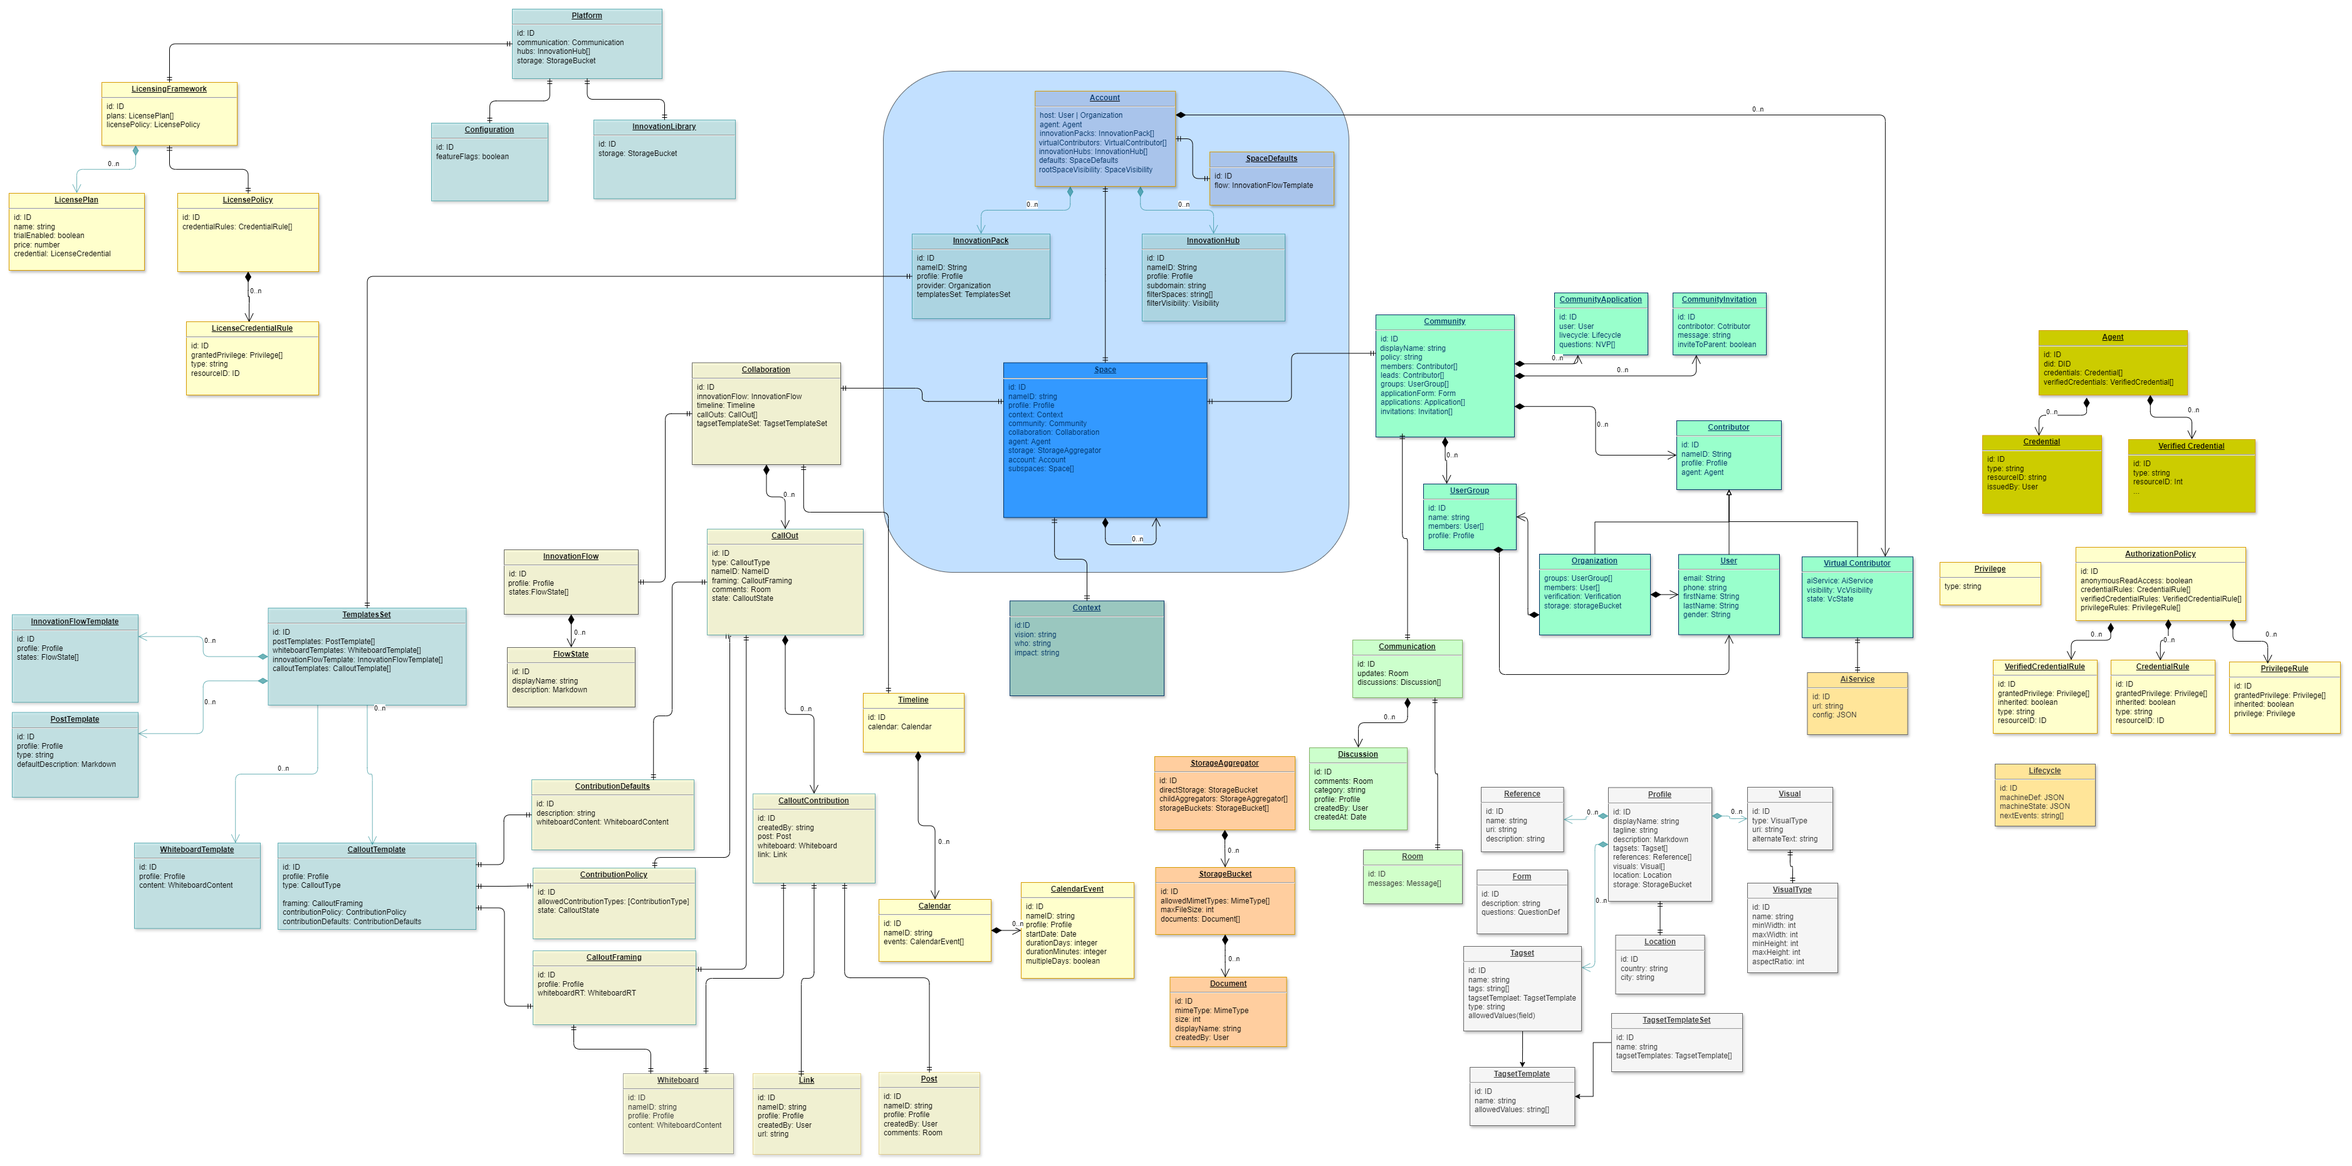
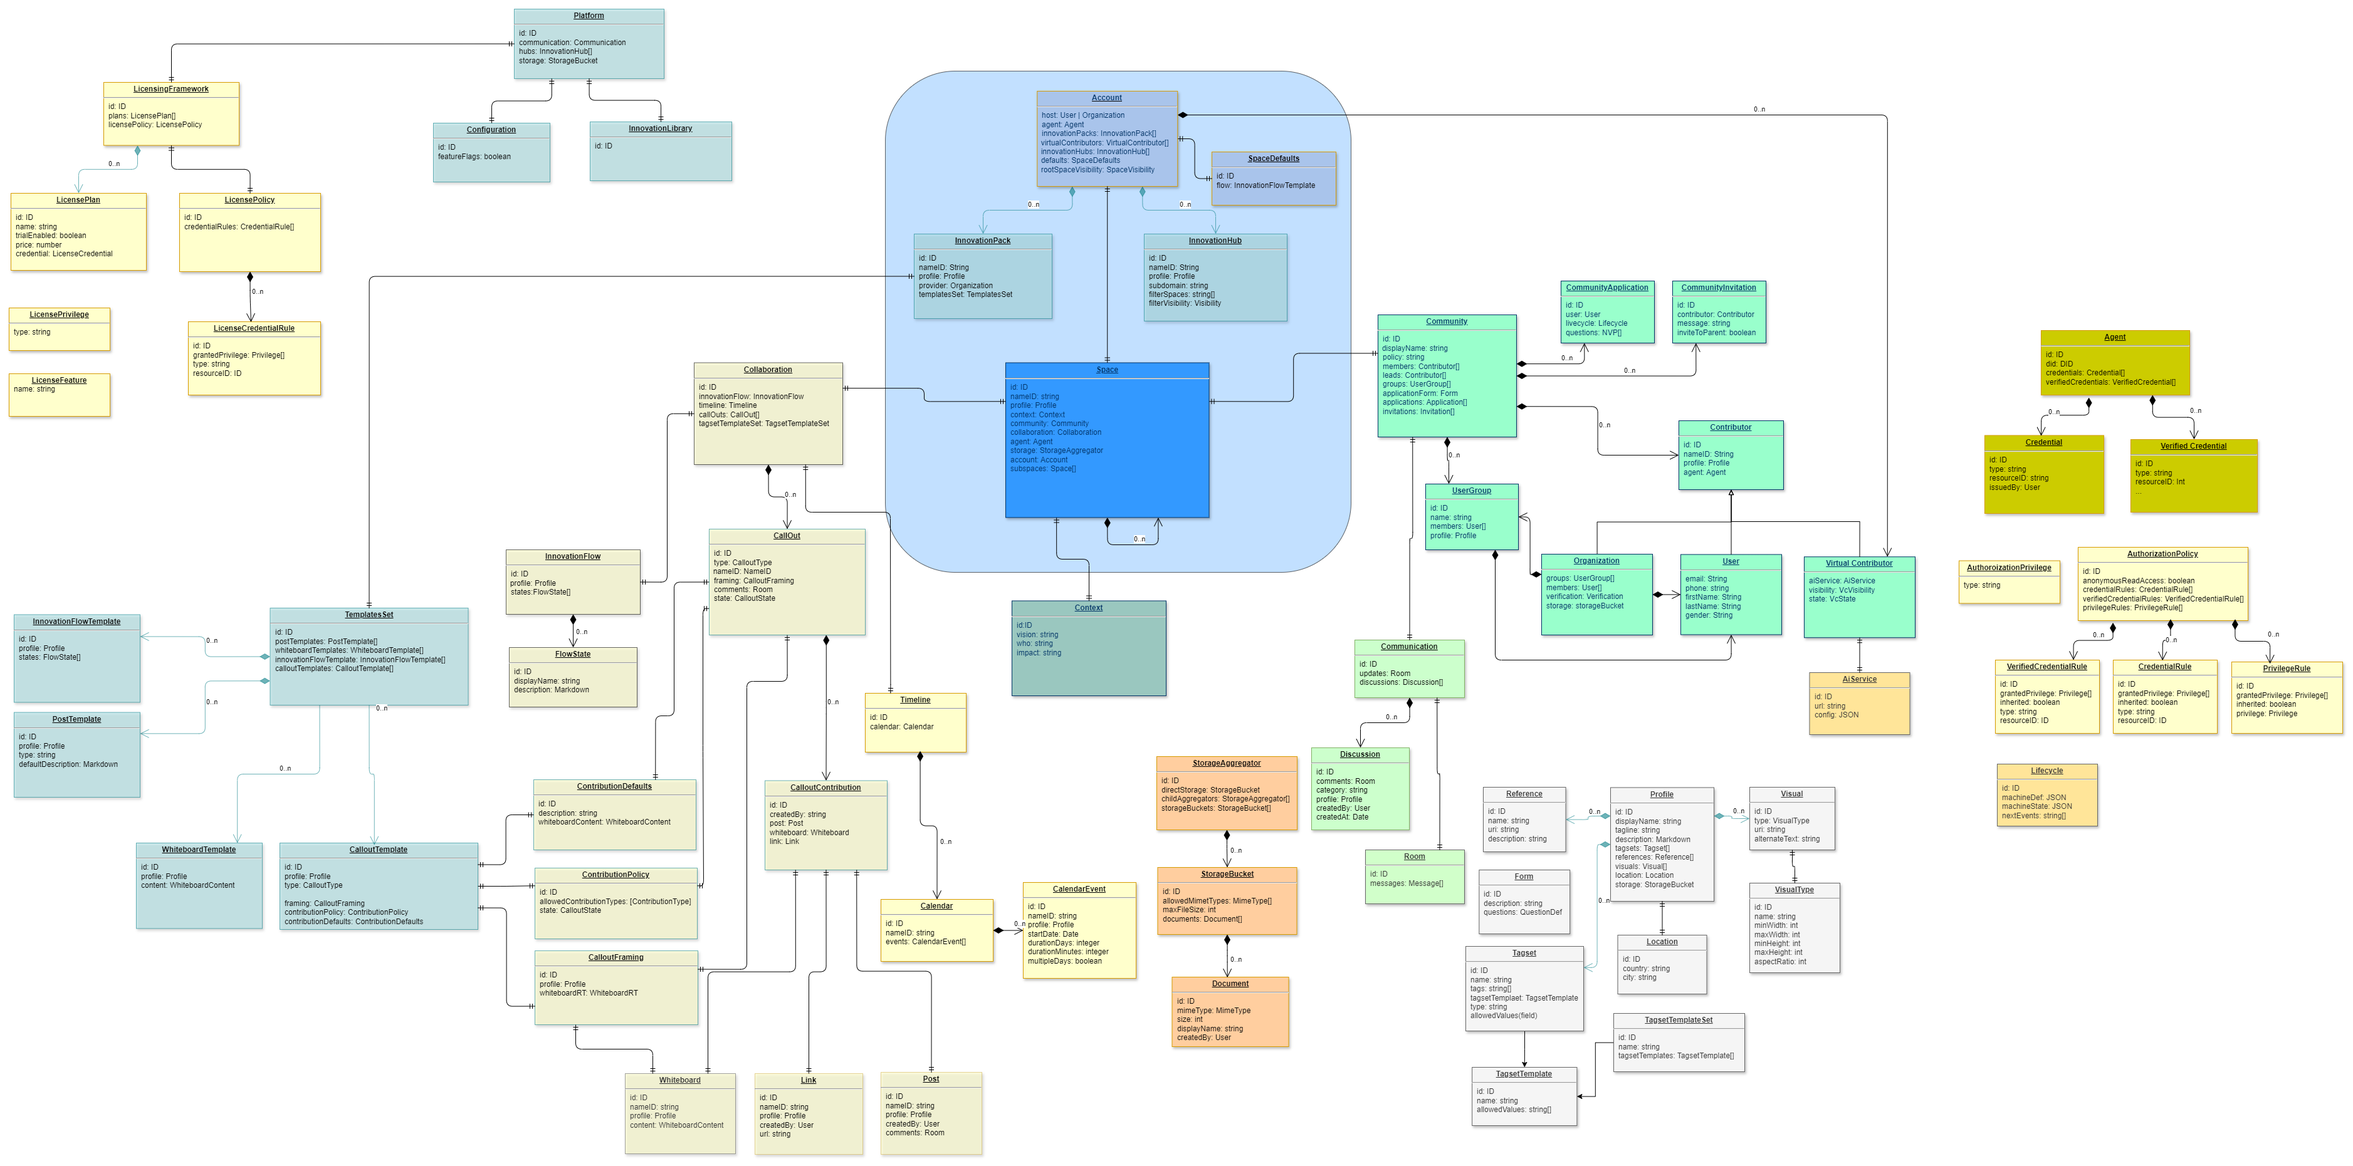
updated authorization to make generation explicity, added meme; updated licensing to describe the different logical areas of the design with explanation; expanded AI Virtual contributors explanation

diff --git a/docs/ai-virtual-contributors.md b/docs/ai-virtual-contributors.md
@@ -40,7 +40,7 @@ To create a VC, access needs to be provided to an AI service.
 To make getting started with Virtual Contributors straightforward, Alkemio also provides the ability to easily create AI services.
 
 ### Provider
-Each VC is created within an Account on Alkemio. Each Account on Alkemio has either a Host user or organization. The Host User or Organization is then the **provider** of the VC.
+Each VC is created within an Account on Alkemio. Each Account on Alkemio has either a Host user or organization. The Host User or Organization is then the **pProvider** of the VC.
 
 ### Visibility
 A VC has the following visibility modes:
@@ -68,13 +68,19 @@ The following information is associated with a VC:
 * **Response types**: The types of responses that can be provided by the AI behind the VC. 
     * For now the only option is "Text". 
 
-In addition the provider of the VC (user, organization), is also displayed. 
+In addition the provider of the VC (user, organization) is also displayed. 
 
 Finally, to create additional trust in the VC, the roadmap includes the ability for attestions to be attached to a VC. This leverages credentials (signed) to allow multiple levels of information to be attached. Examples could include:
 * Trusted by organizations
 * Certifications (think along the lines of a movie age rating), for aspects such as biases.
 ....
 
+## **AI Services**
+The AI services that are used are logically *separate from the Alkemio platform*. 
+
+However there are already services, as well as the ability to create new services, that have been identified and implemented - below are more details.
+
+The chosen logical model is to allow many external AI services to be plugged in and used safely on Alkemio. 
 
 ## **Alkemio AI Service Creators**
 The following capabilities for creating AI services are provided by Alkemio.
@@ -113,19 +119,28 @@ For spaces (and subspaces) within the Account, the VC can be directly added.
 ### Public VC + invitation
 When a VC is public, it can be **invited** to become a member of any Space on Alkemio. 
 
-The Space that wishes to use the specific VC needs to find the VC to be invited. There are two options for this:
-* **Browse the Alkemio Store**: by far the easiest, but it does require the VC provider to have also chosen for the VC to be in the store.
-* **Invitation via VC profile link**: Each VC has a profile page associated with it. If the link to the profile of the VC is shared then this can be used to invite the VC.
-
-Once the VC is invited, then the provider of the VC will be notified of the invitation. The provider then has the option to accept or reject the invitation.
-
+The key steps in this flow are shown below:
 <p align="center">
 <img src="images/ai-virtual-contributors-flow-invite-vc-space-member.png" alt="Flow to invite VC to become a member of a Space" width="600" />
 </p>
 
 
+**Finding the VC**
+The Space that wishes to use the specific VC needs to find the VC to be invited. There are two options for this:
+* **Browse the Alkemio Store**: by far the easiest, but it does require the VC provider to have also chosen for the VC to be in the store.
+* **Invitation via VC profile link**: Each VC has a profile page associated with it. If the link to the profile of the VC is shared then this can be used to invite the VC.
 
-Note: the question of "payment" for being able to interact with a VC as a member in a Space is one that is still being explored. The ideal scenario is that this payment can be facilitated via the platform, the alternative is to make a separate out of band agreement.
+**Inviting the VC**
+Once the VC is found, the inviter then can view the profile of the VC - and importantly make choices related to the membership that is being offered. In particular:
+* Interaction mode: what type of interactions should the VC have as a contributor in the space?
+* Context awareness: how much of the environment in which the VC is a member should be shared with the VC? The more context the more situational awareness the VC has when providing responses / acting.
+* Role: is there a particular role the VC should have, beyond member, in the community?
+
+**Acccepting the invitation**
+Once the invitation is sent, the provider of the VC will be notified of the invitation. The provider then has the option to accept or reject the invitation.
+
+**Payment**
+The question of "payment" for being able to interact with a VC as a member in a Space is one that is still being explored. The ideal scenario is that this payment can be facilitated via the platform, the alternative is to make a separate out of band agreement.
 
 ### Removing memberships
 At any time the provider of a VC can choose to remove the VC as an active member of a Space community. 
@@ -145,13 +160,11 @@ If the User starts a new top level tagging, then a new chat history is created w
 If the User replies to the response from the VC, then the conversation is threaded i.e. the User can add additional context / instructions to shape the response. 
 
 
-
 ## Roadmap
 There are many dimensions to expand the VC capability on Alkemio. 
 
 ### Ineraction Modes
-Allowing the VC to be used separate from a question + response approach. 
-
+Allowing the VC to be used separate from a question + response approach. For example that the VC has agency and can without being prompted contribute e.g. provide a weekly summary of the space activity. 
 
 ### Additional Interactions patterns with VCs
 This is about providing acdditional modes for Users to interact with a VC:

diff --git a/docs/credential-based-authorization.md b/docs/credential-based-authorization.md
@@ -40,12 +40,14 @@ There are multiple credential types in use within Alkemio. Note that in the text
 
 ### **Global Roles**
 These credentials do not have a resource ID specified as they are applicable regardless of context. 
+
+Example global roles:
 * _RegisteredUser_: for users that are registered on the platform
 * _GlobalAdmin_: for the platform administrators, including management of global credentials
-* _GlobalAdminSpaces_: for platform administration of Spaces
-* _GlobalAdminCommunity_: for platform administration of contributors
+* _GlobalSupport_: for users providing platform support
+* _GlobalLicenseManager_: for users managing License assignments on Allkemio
 
-Note that the root role is Global Admin, which is able to manage the other global roles (Global Admin Spaces, Global Admin Community) and is a pure superset of the privileges assigned to those roles. The expected usage is that there is a small set of Global Admins, with potentially a larger set of Global Admin Spaces that facilitate usage of the platform by helping Space Admins.  
+Note that the root role is Global Admin, which is able to manage the other global roles (Global Support, Global License Manager) and is a pure superset of the privileges assigned to those roles. The is a small set of Global Admins, with  a larger set of Global Support users that facilitate usage of the platform by helping Space Admins.  
 
 ### **Context Dependent Roles**
 These are roles that are specific to a context (resourceID) on the platform. Some of the roles are only applicable to e.g. Organizations, but others are applicable to both Users and Organizations. In that case we use the term Contributor.
@@ -53,10 +55,9 @@ These are roles that are specific to a context (resourceID) on the platform. Som
 Example roles: 
 * _AccountHost_: to identify a Contributor as being a Host of an Account. 
 * _SpaceMember_: to identify a Contributor as being a Member of a Space
-* _SpaceAdmin_: to identify a User as being an Admin of an Space
-* _SubspaceMember_: to identify a Contributor as being a Member of a Subspace
-* _SubspaceLead_: to identify a Contributor as being aa Lead of a Subspace
-* _SubspaceAdmin_: to identify a User as being aa Admin of a Subspace
+* _SpaceLead_: to identify a Contributor as being aa Lead of a Space
+* _SpaceAdmin_: to identify a Contributor as being an Admin of an Space
+* _SubspaceAdmin_: to identify a Contributor as being an Admin of a Subspace
 * _UserSelfManagement_: to identify the User as being able to manage their own Profile
 
 An example: consider a User that holds the following Credential:
@@ -68,7 +69,7 @@ This User is then a member of Subspace6, but clearly is *not* a member of Subspa
 ### **Relationships**
 In addition, some key relations are also represented by Credentials. Whilst currently these credentials are used to manage relationships, it is expected that near term that these credentials will also enable certain actions on the platform. 
 * _AccountHost_: when held by an Organization, it is used to identify that they are the host for a particular set of Spaces in an Account
-* _SubspaceLead_: held by an Organization to identify that they are the host for a particular Subspace.
+* _SpaceLead_: held by an Organization to identify that they are the Lead for a particular Space.
 
 ## **AuthorizationPolicy**
 Each entity upon which a User can carry out action on the Alkemio platform has associated with it an AuthorizationPolicy. Each AuthorizationPolicy contains a set of **rules** that determine what Privileges are granted to a particular agent. The set of rule types include:
@@ -130,7 +131,17 @@ _Case 2_:  The User wishes to update the definition of Subspace 7.
 - The execution of the request to update the Subspace passes both the Credentials held by the User and the Authorization Policy to the AuthorizationEngine, together with the required privilege: "UPDATE"
 - The AuthorizationEngine evaluates the request and returns false.
 
+<p align="center">
+<img src="images/security-authorization-meme1.png" alt="Alkemio Authorization Meme" width="300" />
+</p>
+
 ## Populating Authorization Policies
+The Authorization Policies are **generated**. The generation of the AuthorizationPolicy for a particular _Authorizable_ entity takes into account 
+a) the AuthorizationPolicy for the parent (containing) entity, 
+b) any settings on the entity that are relevant for authorization
+
+The generation of the AuthorizationPolicy is a specific action that is carried out, for example if the settings on a Space are changed or if a new release is deployed. 
+
 The Authorization Policy for each _Authorizable_ entity is cascaded through the containment hierarchy.
 
 There is a root level Platform Authorization Policy.

diff --git a/docs/licensing.md b/docs/licensing.md
@@ -1,26 +1,57 @@
-# License Enforcment 
+# License Enforcement 
 This document provides a detailed overview of how entitlements to access functionality is managed within the Alkemio platform. 
 
 The high level design for the License Framework is shown below. 
 <p align="center">
-<img src="images/security-license-framework.png" alt="License Framework" width="600" />
+<img src="images/licensing-framework.png" alt="Licensing Framework" width="600" />
 </p>
 
 This is currently a fairly straightforward design, acting as the base for a near term much more comprehensive and flexible license enforcement.
 
 
-## **Design**
+## **Credential Based Licensing**
 The design is very similar and based on the [Credential Based Authorization](./credential-based-authorization.md) framework that is used to manage Authorization.
 
 Key concepts:
 * **License Privilege**: a simple flag that can be checked at runtime to see if an action is allowed. E.g. access a whiteboard in multi-user mode.
-* **License**: the domain entity holding information that is used to determine the entitlements (privileges) that should be granted.
-* **License Policy**: defines what LicensePrivileges are granted based on the information in the supplied License. It is a set of rules.
+* **License Credentials**: the set of Credentials, from the Account Agent..
+* **License Policy**: defines what LicensePrivileges or LicenseEntitlements are granted based on the information in the LicenseCredentials supplied. It is a set of rules.
   * There is currently a single global License Policy that is managed at the Platform level.
   * Note: design should allow for multiple LicensePolicies to be in use, even if there is only one at the moment. Otherwise we could end up with just ginormous sets of rules etc over time. It is also feasible to think that there may be different licenses applied in different contexts etc.
   * The initial version of the License Policy works with LicensePolicyFeatureFlagRules, so very simple rules that simply check whether a Feature Flag is enabled or not on a License. 
 * **License Engine**: Used by the business logic at runtime to determine whether the currently applicable License results in a License Privilege being granted. 
   * Importantly this engine has to be essentially free of other server dependencies, so that it can later be isolated out into a separate microservice.
+
+## **Logical Design**
+A more details logical model of how the different parts of the Licensing setup on Alkemio operates is shown below:. 
+<p align="center">
+<img src="images/licensing-logical-design.png" alt="Licensing Logical Design" width="600" />
+</p>
+
+### Licensing Common
+* **License Credentials**: credentials specific to licensing
+* **Privileges**: The set of flags that can be checked for
+* **Credentials**: The set of credentials that are used for licensing
+* **Features**:  The usage that is not boolean based but has actual numbers e.g.10 users editing a whiteboard
+* **Engine**: The actual run time evaluation of whether an action should e allowed
+
+### Licensing Framework
+This defines the setup of the Licensing within a given scope. In principle there could be multiple Licensing Frameworks in use, although there is at the moment just one at the platform level 
+
+Key entities:
+* **License Plans**:  definitions, what is available to use
+Policy
+* **License Policy**:  Grants License Privileges / License Entitlements based on a given set of "evidence" (credentials)
+Issuer
+* **License Issuer**:  Knows how to convert a Plan to credentials
+
+### License Usage
+All Licensable actions on the platform take place under an Account. 
+
+An Account has an Agent with a set of License Credentials. 
+
+At runtime, when a particular action is to be carried out (add another member to a Space), the Agent from the relevant Account is used to determine if the action is allowed. 
+
 
 ## **Usage**
 To see the Platform level license policy:

diff --git a/docs/technical-design.md b/docs/technical-design.md
@@ -161,6 +161,16 @@ Essentially upon a User authenticating, the following happens:
 
 Worth noting that this approach also allows for Credentials to be later held outside of the platform e.g. the user holds their own wallet and manages their own credentials. The ideal scenario for Users is that ultimately they can have their own SSI that can then control the Agents managed by the platform - or replace the platform Agents. 
 
+## Licensing: Credentials
+All Licensing within the Alkemio platform is also based on Credentials. This section will provide a high level overview of this approach. For additional details please [read this document](./licensing.md).
+
+<p align="center">
+<img src="images/licensing-framework.png" alt="Licensing Framework" width="600" />
+</p>
+
+Essentially when a User wishes to carry out an action / access functionality that is Licensed, the following happens:
+* The platform retrieves the Agent for the Account within whose scope the action is taking place
+* The Credentials held by that Agent are used to decide if the requested action (e.g. Add another member, create a virtual contributor etc) is Licensed. 
 
 # Templates
 A key design goal for Alkemio is the sharing of best practices, so the platform needs to be customizable. This is achieved with Templates.
@@ -168,10 +178,11 @@ A key design goal for Alkemio is the sharing of best practices, so the platform 
 Templates support is high up the backlog for the platform, as it is important that key entities (e.g. Space, Subspace, Subspace, Project etc) can be instantiated based on a particular template. 
 
 Key areas where we expect that templates support will be useful include:
-* Lifecycles: what is the lifecycle (also sometimes referred to as process) that your entities should follow? What do each of the states mean? What actions should be triggered e.g. if a Subspace is approved?
+
 * Posts: what are the key posts for a Subspace / Subspace that need to be captured within a given Subspace / Subspace?
 * Community: what type of community do you intend to create? What User groups make sense?
 * Whiteboards: what collaboration canvases should be available and what is the goal of each canvas?
+* Innovation Flows: what is the lifecycle (also sometimes referred to as process) that your entities should follow? What do each of the states mean? What actions should be triggered e.g. if a Subspace is approved?
 * (later) what are custom credentials / actions that can be carried out within a particular context?
 
 The management of Templates needs to be both at the global level (global catalog), as well as locally controllable i.e. that a Space can provide a defined set of options (e.g. what Lifecycles can be used).
@@ -202,7 +213,6 @@ Each NameID is unique within a certain scope. The following table shows which en
 | Space   | Global amongst Spaces        |
 | Subspace   | Within containing Space         |
 | Subspace   | Within containing Space         |
-| Project   | Within containing Space         |
 
 Notes:
 * This implies that within a particular Space that the NameIDs for all Subspaces, Opportunities and Projects need to be unique. 
